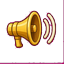
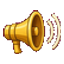
로비·메뉴 버튼을 HUD 버튼과 같은 벌로, 아이콘 마젠타 잔여물 제거·가운데 맞춤, 세로 아레나 입구를 12시로
- .big-btn/.back-btn: 제목 글꼴(Do Hyeon)·3단 그라데이션 토큰(--btn-gold/green/magenta)·글자 그림자로 뽑기·웨이브 시작 버튼과
  같은 모양. 버튼을 flex 로 두어 아이콘(.bi)과 글자가 세로 가운데 정렬 (그동안 'font-family: inherit' 로 본문 글꼴이었다)
- ui/icon-*.png: 시트에서 잘라낼 때 남은 마젠타 키 배경(아래 한 줄·가장자리 테두리)을 지우고 내용을 64×64 가운데에 다시 굽는다
  (tools/clean-icons.mjs). 아이콘이 위로 치우쳐 글자와 높이가 어긋나던 원인
- 세로 아레나(cInfP): 가로 아레나를 시계 방향 90° 돌린 배치가 되도록 입구를 캔버스 위쪽 끝 밖(cx, -40) 에서 위 변 가운데로.
  트랙은 위 변 왼쪽으로 → 왼쪽 변 아래로 → 바닥 → 오른쪽 변 위로 (가로와 같은 시계 반대 방향). GAME-SPEC §3 갱신
- 캐시버스트 v83

Claude-Session: https://claude.ai/code/session_01CPtyjXTAGa9quHxiVhte98

diff --git a/style.css b/style.css
@@ -663,11 +663,12 @@ body.placing #game { cursor: grabbing; }
 .screen-head h2 { min-width: 0; overflow: hidden; text-overflow: ellipsis; white-space: nowrap; }
 .back-btn {
   font-size: 14px; padding: 10px 16px;
-  background: #3a2d21; color: #e5d8b4;
-  border: 1px solid #6b5636; border-radius: 8px; cursor: pointer; font-family: inherit;
+  background: linear-gradient(#4a3a2a, #3a2d21 46%, #24190f); color: #e9dcb8;
+  border: 1px solid #6b5636; border-radius: var(--r-md); cursor: pointer;
+  letter-spacing: .3px; text-shadow: 0 1px 0 rgba(0,0,0,.5);
   min-height: 40px;
 }
-.back-btn:hover { filter: brightness(1.3); }
+.back-btn:hover { filter: brightness(1.2); }
 
 .gem-chip {
   display: inline-flex; align-items: center; gap: 6px;
@@ -682,15 +683,16 @@ body.placing #game { cursor: grabbing; }
 
 .lobby-btns { display: flex; flex-wrap: wrap; gap: 10px; justify-content: center; margin-top: 4px; flex-shrink: 0; }
 .lobby-btns .big-btn { flex: 1 1 140px; }
+/* 큰 버튼: 게임 HUD 버튼(뽑기·웨이브 시작)과 같은 벌 — 제목 글꼴 + 3단 그라데이션 + 베벨. 아이콘(.bi)과 글자는 flex 로 가운데 정렬 */
 .big-btn {
   font-size: 17px; padding: 12px 18px;
-  background: linear-gradient(#8a6a34, #5e4520); color: #fff2d0;
-  border: 1px solid #c9a35a; border-radius: 10px; cursor: pointer; font-family: inherit;
-  transition: transform .08s, filter .12s;
+  background: var(--btn-gold); color: #ffeec2;
+  border: 1px solid var(--btn-gold-line); border-radius: var(--r-md); cursor: pointer;
+  letter-spacing: .5px; text-shadow: 0 1px 0 rgba(0,0,0,.6);
   min-height: 44px;
+  display: inline-flex; flex-wrap: wrap; align-items: center; justify-content: center; gap: 2px 0;
 }
-.big-btn.alt { background: linear-gradient(#2e5b46, #1c3d2d); border-color: #55a382; color: #c9f0dd; }
-.big-btn:hover { filter: brightness(1.18); transform: translateY(-1px); }
+.big-btn.alt { background: var(--btn-green); border-color: var(--btn-green-line); color: #d8ffee; }
 .lobby-inf-btn { width: 100%; margin-top: 10px; flex-shrink: 0; letter-spacing: 0.5px; }
 /* 로비: 인피니티가 맨 위 주 동선, 스테이지·상점은 그 아래 보조 */
 .lobby-sep { width: 100%; height: 1px; margin: 14px 0 2px; background: linear-gradient(90deg, transparent, #4c3d2c, transparent); flex-shrink: 0; }
@@ -700,11 +702,8 @@ body.placing #game { cursor: grabbing; }
 .inf-btns { margin-top: 0; }
 .inf-btns .big-btn { flex: 1 1 200px; margin-top: 10px; display: flex; flex-wrap: wrap; align-items: center; justify-content: center; gap: 2px 0; }
 .inf-btns .big-btn small, .mp-btns .big-btn small { flex-basis: 100%; text-align: center; }
-.big-btn small { font-size: 11px; font-weight: normal; opacity: .85; letter-spacing: 0; }
-#ss-inf-clear { background: linear-gradient(#7a5a1e, #4a350f); border-color: #e8b64a; color: #ffe9b8; }
-#btn-inf-clear { background: linear-gradient(#7a5a1e, #4a350f); border-color: #e8b64a; color: #ffe9b8; }
-.big-btn.alt { background: linear-gradient(#2e5b46, #1c3d2d); border-color: #55a382; color: #c9f0dd; }
-.big-btn:hover { filter: brightness(1.18); transform: translateY(-1px); }
+.big-btn small { flex-basis: 100%; text-align: center; font-size: 11px; font-weight: normal; opacity: .85; letter-spacing: 0; font-family: var(--font-ui); text-shadow: none; }
+#ss-inf-clear, #btn-inf-clear { background: var(--btn-gold); border-color: var(--gold); color: #ffe9b8; }
 
 /* 스테이지 그리드 */
 .stage-grid {
@@ -799,7 +798,7 @@ body.placing #game { cursor: grabbing; }
 .inf-banner:disabled, .inf-banner.locked { opacity: .55; cursor: default; filter: none; }
 
 /* ==================== 인피니티 모드 ==================== */
-.big-btn.inf { background: linear-gradient(#7a2f6a, #4a1a40); border-color: #ff7ad9; color: #ffd6f3; }
+.big-btn.inf { background: var(--btn-magenta); border-color: var(--btn-magenta-line); color: #ffd6f3; }
 .big-btn.inf.locked, .big-btn.inf:disabled { opacity: .55; cursor: default; filter: none; transform: none; }
 .inf-sub { margin-top: 10px; color: #e6b8dc; }
 #inf-panel {

diff --git a/content.js b/content.js
@@ -1126,7 +1126,7 @@ window.DKCONTENT = (function () {
     { id: 'toyKing', name: '장난감왕', hp: 1220, speed: 24, gold: 150, dmg: 5, size: 92, move: 'ground', sprite: 'cToyKing', src: 'casual/bosses/toy-king.png' },
     { id: 'lanternKoi', name: '등불잉어', hp: 1080, speed: 30, gold: 146, dmg: 5, size: 92, move: 'air', sprite: 'cLanternKoi', src: 'casual/bosses/lantern-koi.png' },
   ];
-  // 세로 화면용 아레나: 캔버스 720×1080, 보드 3열×5행, 트랙은 세로로 긴 링
+  // 세로 화면용 아레나: 캔버스 720×1080, 보드 3열×5행, 트랙은 세로로 긴 링. 가로 아레나를 시계 방향 90° 회전한 배치(입구 위쪽)
   function buildArenaLayoutPortrait(W, H, inset) {
     W = W || 720; H = H || 1080; inset = inset || {};
     const cx = Math.round(W / 2), cy = Math.round((inset.top || 0) + (H - (inset.top || 0) - (inset.bottom || 0)) / 2);
@@ -1137,12 +1137,13 @@ window.DKCONTENT = (function () {
       return out;
     };
     const dedupe = (pts) => pts.filter((p, i) => i === 0 || Math.hypot(p[0] - pts[i - 1][0], p[1] - pts[i - 1][1]) > 0.5);
-    const ring = dedupe([[L, MID],
-      ...arc(L + rad, B - rad, Math.PI, Math.PI / 2, 6), ...arc(R - rad, B - rad, Math.PI / 2, 0, 6),
-      ...arc(R - rad, T + rad, 0, -Math.PI / 2, 6), ...arc(L + rad, T + rad, -Math.PI / 2, -Math.PI, 6), [L, MID]]);
-    const entry = [[-40, MID], [L, MID]];
+    // 가로 아레나를 시계 방향으로 90° 돌린 것과 같게: 입구가 위(12시) 가운데, 트랙은 위 변 왼쪽으로 → 왼쪽 변 아래로 → 바닥 → 오른쪽 변 위로 → 위 변 가운데
+    const ring = dedupe([[cx, T],
+      ...arc(L + rad, T + rad, -Math.PI / 2, -Math.PI, 6), ...arc(L + rad, B - rad, Math.PI, Math.PI / 2, 6),
+      ...arc(R - rad, B - rad, Math.PI / 2, 0, 6), ...arc(R - rad, T + rad, 0, -Math.PI / 2, 6), [cx, T]]);
+    const entry = [[cx, -40], [cx, T]];   // 캔버스 위쪽 끝 밖에서 들어온다 (가로의 왼쪽 입구에 해당)
     const path = dedupe([...entry, ...ring]);
-    const loopAt = L - entry[0][0];
+    const loopAt = T - entry[0][1];
     const gapX = 150, gapY = 118;
     const spots = [];
     for (let r = 0; r < 5; r++) for (let c = 0; c < 3; c++) spots.push([cx + (c - 1) * gapX, MID + (r - 2) * gapY]);

diff --git a/index.html b/index.html
@@ -7,8 +7,8 @@
 <meta name="apple-mobile-web-app-capable" content="yes" />
 <meta name="mobile-web-app-capable" content="yes" />
 <title>주사위 성채 (Dicekeep)</title>
-<link rel="stylesheet" href="fonts/fonts.css?v=82" />
-<link rel="stylesheet" href="style.css?v=82" />
+<link rel="stylesheet" href="fonts/fonts.css?v=83" />
+<link rel="stylesheet" href="style.css?v=83" />
 <link rel="icon" href="ui/gold.png" />
 </head>
 <body>
@@ -259,9 +259,9 @@
   <div id="ghost-ring"></div>
 </div>
 <!-- APP -->
-<script src="music.js?v=82"></script>
-<script src="net.js?v=82"></script>
-<script src="content.js?v=82"></script>
-<script src="game.js?v=82"></script>
+<script src="music.js?v=83"></script>
+<script src="net.js?v=83"></script>
+<script src="content.js?v=83"></script>
+<script src="game.js?v=83"></script>
 </body>
 </html>
